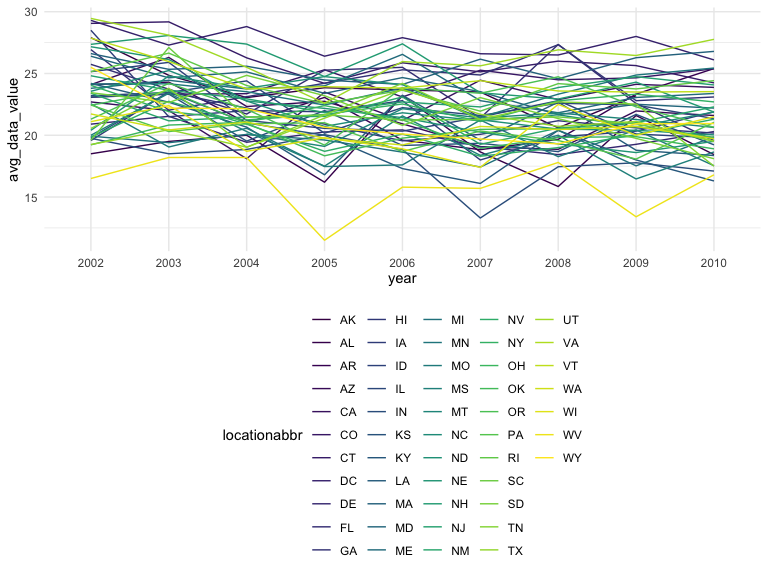
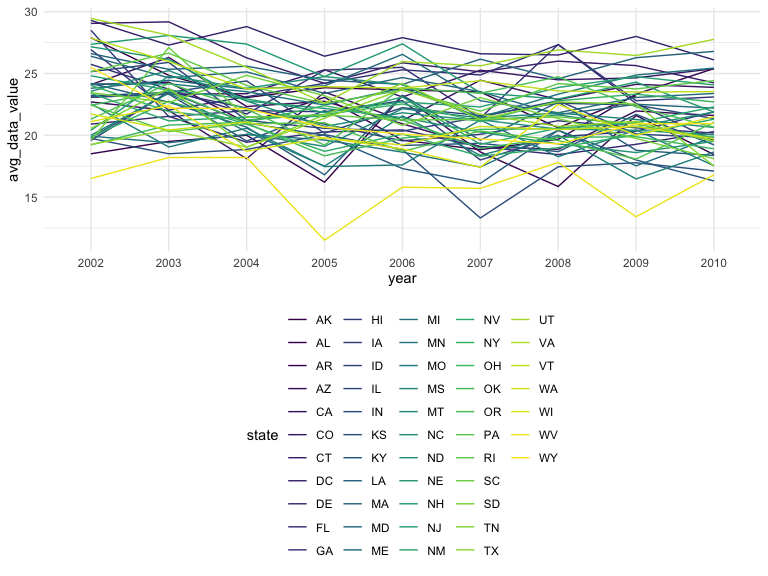
updated variable names and comments

Changed region(s): [[0.2812, 0.75, 0.75, 0.9688], [0.375, 0.5312, 0.75, 0.7188]]

diff --git a/p8105_hw3_mp3745.md b/p8105_hw3_mp3745.md
@@ -10,6 +10,7 @@ Matthew Parker
 library(p8105.datasets)
 data("instacart")
 
+# Clean names
 instacart = instacart %>%
   janitor::clean_names()
 ```
@@ -75,9 +76,10 @@ instacart %>%
 Unsurprisingly, we can see that most orders from instacart are placed on
 Sunday.
 
-## Most popular aisles
+## Aisles
 
 ``` r
+# Top ten aisles by number of items ordered
 instacart %>% 
   group_by(aisle) %>% 
   summarize(
@@ -106,9 +108,11 @@ instacart %>%
 Top 10 aisles by number of items ordered
 
 There are 134 different aisles that items can be ordered from. The fresh
-vegetables aisle has the most items ordered from it.
+vegetables aisle has the most items ordered from
+it.
 
 ``` r
+# Number of items ordered per aisle (for aisles with over 10,000 items ordered)
 instacart %>% 
   group_by(aisle) %>% 
   summarize(
@@ -128,6 +132,7 @@ with over 10,000 items ordered. Again, we can see that the fresh
 vegetables aisle had the most items ordered.
 
 ``` r
+# Most popular items for 3 particular aisles
 instacart %>% 
   filter(aisle == c("baking ingredients", "dog food care", "packaged vegetables fruits")) %>%
   group_by(aisle, product_name) %>%
@@ -161,9 +166,11 @@ vegetables fruits aisles
 From this table, we can see that light brown sugar, organix grain free
 chicken & vegetable dog food, and organic baby spinach were the most
 popular items from the baking ingredients, dog food care, and packaged
-vegetables fruits aisles, respectively.
+vegetables fruits aisles,
+respectively.
 
 ``` r
+# Mean hour of day that pink lady apples and coffee ice cream are ordered
 instacart %>% 
   filter(product_name == c("Pink Lady Apples", "Coffee Ice Cream")) %>%
   group_by(product_name, order_dow) %>% 
@@ -235,6 +242,8 @@ brfss_smart2010 =
 # data cleaning
 brfss_smart2010_ovr_hlth = brfss_smart2010 %>% 
   janitor::clean_names() %>% 
+  separate(locationdesc, into = c("state", "county"), sep = " - ") %>% 
+  select(-locationabbr) %>% 
   filter(topic == "Overall Health") %>% 
   filter(response == c("Excellent", "Very good", "Good", "Fair", "Poor")) %>% 
   mutate(
@@ -243,21 +252,19 @@ brfss_smart2010_ovr_hlth = brfss_smart2010 %>%
   arrange(response)
 ```
 
-States observed in 2002 at 7 or more locations
-
 ``` r
+# States observed in 2002 at 7 or more locations
 brfss_smart2010_ovr_hlth %>% 
-  filter(year == 2002) %>% 
-  separate(locationdesc, into = c("State", "County"), sep = "-") %>% 
-  group_by(State) %>% 
+  filter(year == 2002)  %>% 
+  group_by(state) %>% 
   summarize(
-    num_locations = n_distinct(County)
+    num_locations = n_distinct(county)
   ) %>% 
   filter(num_locations >= 7) %>% 
   knitr::kable()
 ```
 
-| State | num\_locations |
+| state | num\_locations |
 | :---- | -------------: |
 | CT    |              7 |
 | FL    |              7 |
@@ -268,21 +275,19 @@ brfss_smart2010_ovr_hlth %>%
 
 There were 6 states observed at 7 or more locations in 2002.
 
-States observed in 2010 at 7 or more locations
-
 ``` r
+# States observed in 2010 at 7 or more locations
 brfss_smart2010_ovr_hlth %>% 
-  filter(year == 2010) %>% 
-  separate(locationdesc, into = c("State", "County"), sep = "-") %>% 
-  group_by(State) %>% 
+  filter(year == 2010)  %>% 
+  group_by(state) %>% 
   summarize(
-    num_locations = n_distinct(County)
+    num_locations = n_distinct(county)
   ) %>% 
   filter(num_locations >= 7) %>% 
   knitr::kable()
 ```
 
-| State | num\_locations |
+| state | num\_locations |
 | :---- | -------------: |
 | CA    |             12 |
 | CO    |              7 |
@@ -303,15 +308,16 @@ There were 14 states observed at 7 or more locations in 2010, which is
 more than 2002.
 
 ``` r
+# Plot avg_data_value by state over time (year)
 brfss_smart2010_ovr_hlth %>% 
   filter(response == "Excellent") %>% 
-  group_by(year, locationabbr) %>% 
+  group_by(year, state) %>% 
   summarize(
     avg_data_value = mean(as.numeric(data_value), na.rm = TRUE)
   ) %>% 
-  select(year, locationabbr, avg_data_value) %>% 
+  select(year, state, avg_data_value) %>% 
   ungroup() %>% 
-  ggplot(aes(x = year, y = avg_data_value, group = locationabbr, color = locationabbr)) + 
+  ggplot(aes(x = year, y = avg_data_value, group = state, color = state)) + 
   geom_line()
 ```
 
@@ -322,11 +328,10 @@ data value each year at the state level from 2002 to 2010. For the most
 part, the states are fairly clustered together, with some having a
 higher average data value than others.
 
-Looking at data value in NY by response for 2006 and 2010.
-
 ``` r
+# Looking at data value in NY by response for 2006 and 2010
 brfss_smart2010_ovr_hlth %>% 
-  filter(year == c("2006", "2010"), locationabbr == "NY") %>%
+  filter(year == c("2006", "2010"), state == "NY") %>%
   mutate(data_value = as.numeric(data_value)) %>% 
   ggplot(aes(x = response, y = data_value, color = response)) +
   geom_violin() +
@@ -377,6 +382,7 @@ variables: week, day\_id, day, minute, activity\_count, is\_weekend.
 There are a total of 50400 rows.
 
 ``` r
+# Total activity by day
 accel_data %>% 
   group_by(week, day, is_weekend) %>% 
   summarize(
@@ -428,10 +434,11 @@ accel_data %>%
 
 Based on the above table looking at total daily activity, it is hard to
 tell if there are any trends. Towards the end of the five week period,
-it seems total daily activity tends to be lower around the weeknd
+it seems total daily activity tends to be lower around the weekend
 though.
 
 ``` r
+# Activity over the couse of a day by day of week
 accel_data %>% 
   ggplot(aes(x = minute, y = activity_count, color = day)) +
   geom_line()
